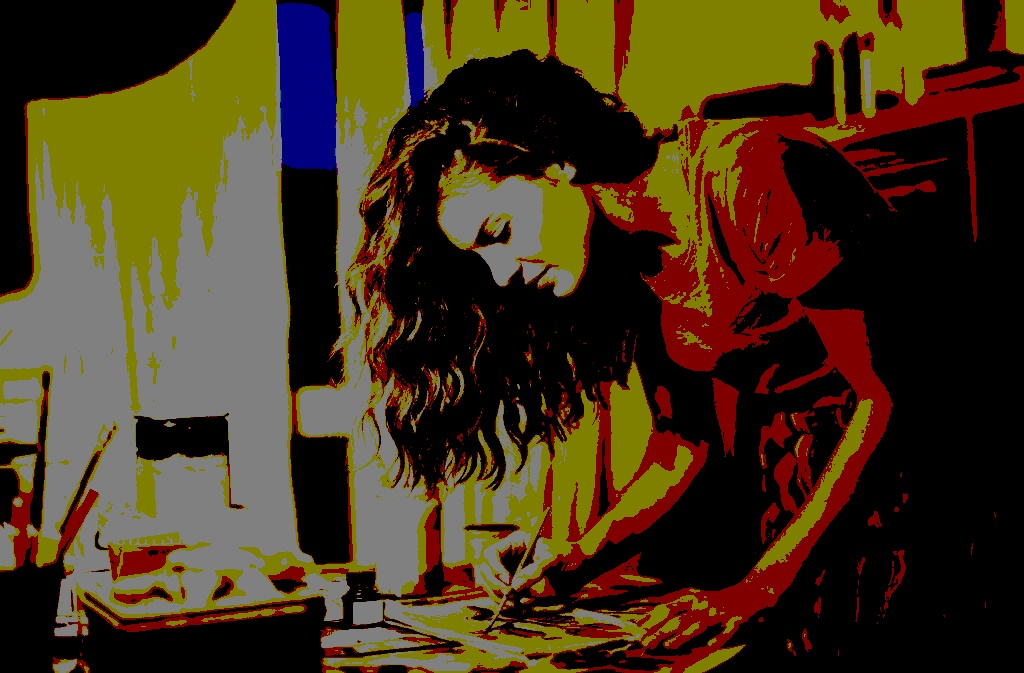
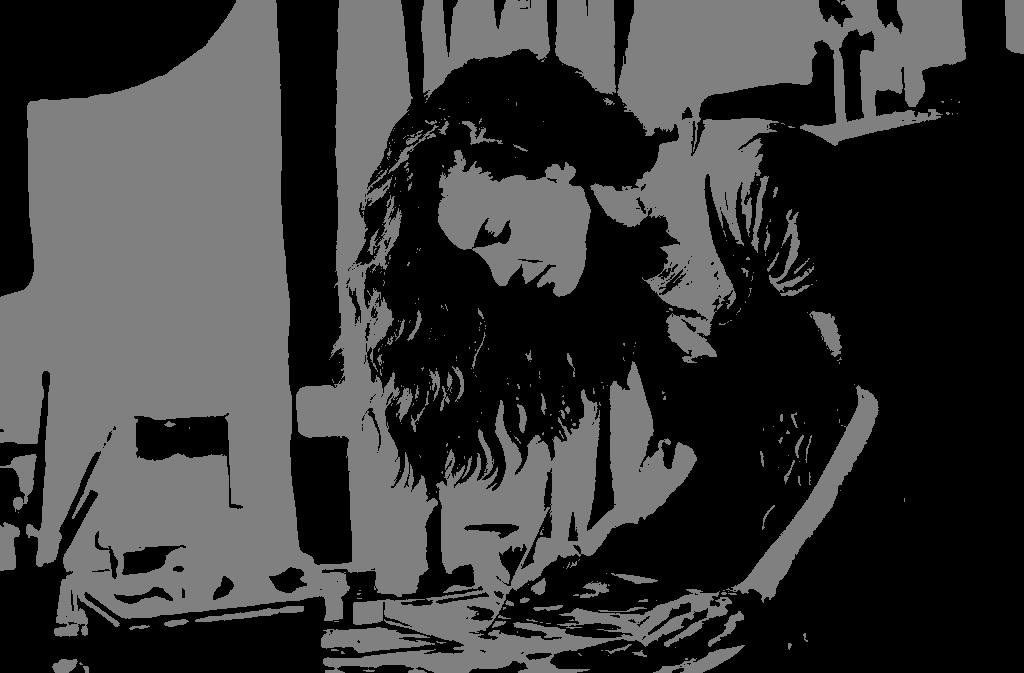
add multiple quantization levels

diff --git a/main.py b/main.py
@@ -6,7 +6,6 @@ from utils.resolution import block_average
 import matplotlib.pyplot as plt
 
 image = cv2.imread("inputs/input.jpg")
-
 # Task 1 - Intensity Level Reduction
 for level in [2, 4, 8, 16]:
     result = reduce_intensity_levels(image, level)

diff --git a/utils/quantization.py b/utils/quantization.py
@@ -1,3 +1,5 @@
+import cv2
 def reduce_intensity_levels(image, levels):
+    grayScaleImage = cv2.cvtColor(image, cv2.COLOR_BGR2GRAY)
     factor = 256 // levels
-    return (image // factor) * factor
+    return (grayScaleImage // factor) * factor
